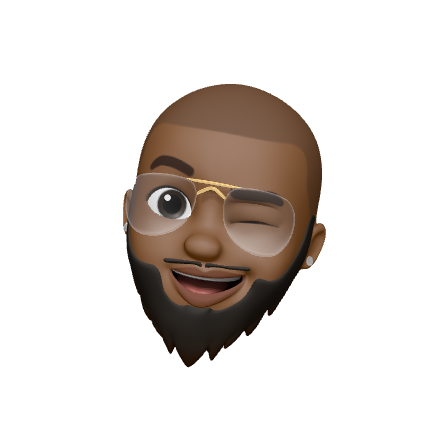
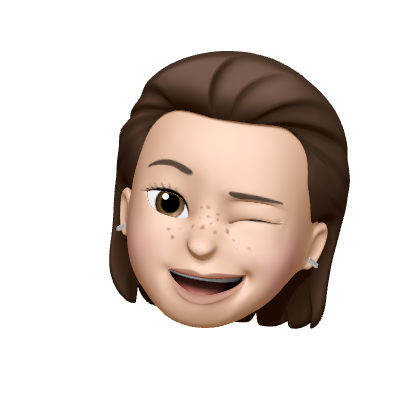
update the pictures

diff --git a/index.html b/index.html
@@ -5,7 +5,7 @@
   <meta charset="utf-8">
   <meta content="width=device-width, initial-scale=1.0" name="viewport">
 
-  <title>Joojo Dontoh</title>
+  <title>Yasmine Lagha</title>
   <meta content="" name="descriptison">
   <meta content="" name="keywords">
 
@@ -26,7 +26,8 @@
   <link href="assets/vendor/boxicons/css/boxicons.min.css" rel="stylesheet">
   <link href="assets/vendor/venobox/venobox.css" rel="stylesheet">
   <link href="https://cdn.jsdelivr.net/gh/gitbrent/bootstrap4-toggle@3.6.1/css/bootstrap4-toggle.min.css" rel="stylesheet">
-
+  <link href='https://unpkg.com/boxicons@2.1.4/css/boxicons.min.css' rel='stylesheet'>
+  <script src="https://kit.fontawesome.com/2cbb234619.js" crossorigin="anonymous"></script>
   <!-- Template Main CSS File -->
   <link href="assets/css/style.css" rel="stylesheet">
 </head>
@@ -35,13 +36,14 @@
 
   <!-- ======= Header ======= -->
   <header id="header" class="header-tops">
+    
     <div class="container">
 
       <!-- Uncomment below if you prefer to use an image logo -->
-      <a href="index.html" class="mr-auto"><img src="assets/img/happyanimoji.png" alt="" class="img-fluid"></a>
-      <h1><a href="index.html">Joojo Dontoh</a></h1>
+      <a href="index.html" class="mr-auto"><img src="assets/img/yasmine-ferhana-sticker.png" alt="" class="img-fluid"></a>
+      <h1><a href="index.html">Lagha Yasmine</a></h1>
 
-      <h2>I'm a passionate <span>Sofware Engineer</span> from Ghana 🇬🇭 </h2>
+      <h2>I'm a passionate <span>Software Engineering Student</span> from Canada 🇨🇦 </h2>
 
       <nav class="nav-menu d-none d-lg-block">
         <ul>
@@ -49,22 +51,15 @@
           <li><a href="#about">About</a></li>
           <li><a href="#resume">Resume</a></li>
           <li><a href="#services">Repositories</a></li>
-          <li><a href="#writing">Writing</a></li>
-          <li><a href="#extras">Extras</a></li>
           <li><a href="#contact">Contact</a></li>
-          <li ><a href=""><div class="checkbox checkbox-slider--b-flat">
-            <label>
-              <input id="theme" type="checkbox"><span> </span>
-            </label>
-          </div></a></li>
         </ul>
       </nav><!-- .nav-menu -->
 
       <div class="social-links">
-        <a href="https://www.linkedin.com/in/joojo-dontoh-57843b65/" class="linkedin" target="_blank"><i
+        <a href="https://www.linkedin.com/in/yasmine-lagha-b10916254/" class="linkedin" target="_blank"><i
             class="icofont-linkedin"></i>
           </a>
-        <a href="https://dev.to/joojodontoh" target="_blank">
+        <a href="https://dev.to/yasminelagha" target="_blank">
           <img src="https://d2fltix0v2e0sb.cloudfront.net/dev-badge.svg" alt="JOOJO DONTOH's DEV Community Profile" height="30" width="30">
         </a>
       </div>
@@ -85,43 +80,32 @@
 
       <div class="row">
         <div class="col-lg-4" data-aos="fade-right">
-          <img src="assets/img/Image 3.png" class="img-fluid" alt="">
+          <img src="assets/img/memoji who am i .png" class="img-fluid" alt="">
         </div>
         <div class="col-lg-8 pt-4 pt-lg-0 content" data-aos="fade-left">
-          <h3>Software Engineer (Backend)</h3>
+          <h3>Computer and Software Engineer (Backend)</h3>
           <p class="font-italic">
-            My name is Joojo Dontoh (if you're reading this you probably know that already). I have always had an
-            insatiable appetite for anything in connection to computers. Throughout my childhood I
-            would always tinker with any device in my possession to have an Idea as to how it works. This appetite led
-            me through high school (Mfantsipim School) and then to Multimedia university in Malaysia where I had my
-            bachelors degree in computer science with a specialisation in business information systems.
-
-            Throughout my time in school I spent countless hours building software based on requirements I would put
-            together myself. I improved my skills with technologies such as java spring boot, python (windows
-            applications) and numerous javascript application which I hosted on heroku because there was a vast amount
-            of resources at my disposal.
+            If one day someone will be a programming legend thanks to Scratch, it will probably be me.  My name is Yasmine Lagha, I'm studyimg Computer Engineering with the CO-OP option 
+            at the University Of Ottawa.I discoverd my passion for coding and digital world by the age 0f 14 years old doing a school project, a game that we had to developp with scratch 
+            (it was a big deal at that time ...). After spending hours creating scripts for Simpsons's collecting coins to buy  the iphone X, I had a 20/20 as a final grade (the best grade, obviously).
+             Since that moment, I wanted to code, create and learn how to develop progamms. 
           </p>
           <div class="row">
             <div class="col-lg-6">
               <ul>
-                <li><i class="icofont-rounded-right"></i> <strong>Git:</strong> <a href="https://github.com/Joojo7"
+                <li><i class="icofont-rounded-right"></i> <strong>Git:</strong> <a href="https://github.com/yasmine-lagha"
                     target="_blank">
                     Check my Github out</a> </li>
-                <li><i class="icofont-rounded-right"></i> <strong>City:</strong> Cyberjaya, Malaysia</li>
+                <li><i class="icofont-rounded-right"></i> <strong>City:</strong>  Tunis, Tunisia</li>
               </ul>
             </div>
             <div class="col-lg-6">
               <ul>
-                <li><i class="icofont-rounded-right"></i> <strong>Email:</strong> joojodontoh@gmail.com</li>
+                <li><i class="icofont-rounded-right"></i> <strong>Email:</strong>  jaslagha@gmail.com</li>
               </ul>
             </div>
           </div>
-          <p>
-            Discovering the components of software, server management and devops as I work in this industry continues to
-            fascinate me while increasing my passion for software development exponentially. The world would never be
-            short of problems to solve or applications to build which makes me very happy. Hope to share my passion with
-            you soon.
-          </p>
+         
         </div>
       </div>
 
@@ -181,7 +165,7 @@
         <div class="col-lg-6">
 
           <div class="progress">
-            <span class="skill">Node.js <i class="val">100%</i></span>
+            <span class="skill">Python<i class="val">100%</i></span>
             <div class="progress-bar-wrap">
               <div class="progress-bar" role="progressbar" aria-valuenow="100" aria-valuemin="0" aria-valuemax="100">
               </div>
@@ -189,7 +173,7 @@
           </div>
 
           <div class="progress">
-            <span class="skill">React.js <i class="val">60%</i></span>
+            <span class="skill">JAVA<i class="val">60%</i></span>
             <div class="progress-bar-wrap">
               <div class="progress-bar" role="progressbar" aria-valuenow="60" aria-valuemin="0" aria-valuemax="100">
               </div>
@@ -197,7 +181,7 @@
           </div>
 
           <div class="progress">
-            <span class="skill">Express.js <i class="val">100%</i></span>
+            <span class="skill"> IT Support <i class="val">100%</i></span>
             <div class="progress-bar-wrap">
               <div class="progress-bar" role="progressbar" aria-valuenow="100" aria-valuemin="0" aria-valuemax="100">
               </div>
@@ -209,7 +193,7 @@
         <div class="col-lg-6">
 
           <div class="progress">
-            <span class="skill">Flutter <i class="val">60%</i></span>
+            <span class="skill"> HTML <i class="val">60%</i></span>
             <div class="progress-bar-wrap">
               <div class="progress-bar" role="progressbar" aria-valuenow="60" aria-valuemin="0" aria-valuemax="100">
               </div>
@@ -217,63 +201,13 @@
           </div>
 
           <div class="progress">
-            <span class="skill">Adobe Illustrator <i class="val">60%</i></span>
-            <div class="progress-bar-wrap">
-              <div class="progress-bar" role="progressbar" aria-valuenow="60" aria-valuemin="0" aria-valuemax="100">
-              </div>
-            </div>
-          </div>
-
-          <div class="progress">
-            <span class="skill">Photoshop <i class="val">88%</i></span>
+            <span class="skill"> Unity <i class="val">88%</i></span>
             <div class="progress-bar-wrap">
               <div class="progress-bar" role="progressbar" aria-valuenow="88" aria-valuemin="0" aria-valuemax="100">
               </div>
             </div>
           </div>
 
-        </div>
-
-        <div class="col-lg-6">
-
-          <div class="progress">
-            <span class="skill">Version Control (GIT) <i class="val">90%</i></span>
-            <div class="progress-bar-wrap">
-              <div class="progress-bar" role="progressbar" aria-valuenow="90" aria-valuemin="0" aria-valuemax="100">
-              </div>
-            </div>
-          </div>
-
-          <div class="progress">
-            <span class="skill">Python <i class="val">60%</i></span>
-            <div class="progress-bar-wrap">
-              <div class="progress-bar" role="progressbar" aria-valuenow="60" aria-valuemin="0" aria-valuemax="100">
-              </div>
-            </div>
-          </div>
-
-          <div class="progress">
-            <span class="skill">Java <i class="val">50%</i></span>
-            <div class="progress-bar-wrap">
-              <div class="progress-bar" role="progressbar" aria-valuenow="50" aria-valuemin="0" aria-valuemax="100">
-              </div>
-            </div>
-          </div>
-
-          <div class="progress">
-            <span class="skill">KNIME<i class="val">50%</i></span>
-            <div class="progress-bar-wrap">
-              <div class="progress-bar" role="progressbar" aria-valuenow="50" aria-valuemin="0" aria-valuemax="100">
-              </div>
-            </div>
-          </div>
-
-          <div class="progress">
-            <span class="skill">Golang<i class="val">70%</i></span>
-            <div class="progress-bar-wrap">
-              <div class="progress-bar" role="progressbar" aria-valuenow="70" aria-valuemin="0" aria-valuemax="100">
-              </div>
-            </div>
           </div>
         </div>
 
@@ -291,14 +225,14 @@
       <div class="row">
         <div class="col-lg-3 col-md-4">
           <div class="icon-box">
-            <i class="ri-paint-brush-line" style="color: var(--primarybirght)"></i>
-            <h3>Design</h3>
+            <i class='bx bxs-piano' style="color: var(--primarybirght)"></i>
+            <h3>Piano</h3>
           </div>
         </div>
         <div class="col-lg-3 col-md-4 mt-4 mt-md-0">
           <div class="icon-box">
-            <i class="ri-brush-fill" style="color: var(--primarybirght)"></i>
-            <h3>Photo Manupulation</h3>
+            <i class="fa-solid fa-masks-theater"style="color: var(--primarybirght)"></i>
+            <h3>Theatre</h3>
           </div>
         </div>
         <div class="col-lg-3 col-md-4 mt-4 mt-md-0">
@@ -309,8 +243,8 @@
         </div>
         <div class="col-lg-3 col-md-4 mt-4 mt-lg-0">
           <div class="icon-box">
-            <i class="ri-football-fill" style="color:  var(--primarybirght)"></i>
-            <h3>Watching Football</h3>
+            <i class="fa-solid fa-dumbbell"style="color:  var(--primarybirght)"></i>
+            <h3>Gym</h3>
           </div>
         </div>
 
@@ -551,57 +485,32 @@
       </div>
 
       <div class="col-lg-4" data-aos="fade-right">
-        <img src="assets/img/Image 4.png" class="img-fluid" alt="">
+        <img src="assets/img/yasmine al computer.png" class="img-fluid" alt="">
       </div>
-
+      
       <div class="row">
 
-        <div class="col-lg-4 col-md-6 d-flex align-items-stretch">
+        <div class="col-lg-4 col-md-6 d-flex align-items-stretch mt-4 mt-md-0">
           <div class="icon-box">
-            <div class="icon"><i class="bx bxs-hotel"></i></div>
-            <h4><a href="https://github.com/Joojo7/Hotel-booking-system" target="_blank">Hotel-booking-system</a></h4>
-            <p>Hotel booking system (Restful APIs and backend Database)</p>
+            <div class="icon"><i class="fa-solid fa-table-tennis-paddle-ball"></i></div>  
+            <h4><a href="https://github.com/yasmine-lagha/ping-pong.git" target="_blank">Ping pong</a></h4>
+            <p> Ping pong game designed by me and developed by C#</p>
           </div>
         </div>
 
         <div class="col-lg-4 col-md-6 d-flex align-items-stretch mt-4 mt-md-0">
           <div class="icon-box">
-            <div class="icon"><i class="bx bx-phone"></i></div>
-            <h4><a href="https://github.com/Joojo7/demo-contacts-api" target="_blank">Contacts API</a></h4>
-            <p>API for creating contacts (Restful APIs and backend Database)</p>
+            <div class="icon"><i class="fa-solid fa-gamepad"></i></div>  
+            <h4><a href="https://github.com/yasmine-lagha/Arkanoid.git" target="_blank">Arkanoid</a></h4>
+            <p> Arkanoid game designed by me and developed by C#</p>
           </div>
         </div>
 
-        <div class="col-lg-4 col-md-6 d-flex align-items-stretch mt-4 mt-lg-0">
+        <div class="col-lg-4 col-md-6 d-flex align-items-stretch mt-4 mt-md-0">
           <div class="icon-box">
-            <div class="icon"><i class="bx bx-bone"></i></div>
-            <h4><a href="https://github.com/Joojo7/Bone-cancer-KNN-ML">Bone-cancer-KNN-ML</a></h4>
-            <p>Osteosarcoma KNN machine learning (supervised machine learning model using python)</p>
-          </div>
-        </div>
-
-        <div class="col-lg-4 col-md-6 d-flex align-items-stretch mt-4">
-          <div class="icon-box">
-            <div class="icon"><i class='bx bx-food-menu'></i></div>
-            <h4><a href="https://github.com/Joojo7/go-restaurant-app">Restaurant order system</a></h4>
-            <p>Server side application in Golang for managing restarant orders</p>
-          </div>
-        </div>
-         
-
-        <div class="col-lg-4 col-md-6 d-flex align-items-stretch mt-4">
-          <div class="icon-box">
-            <div class="icon"><i class="bx bxs-car-mechanic"></i></div>
-            <h4><a href="https://github.com/Joojo7/machine-learning-ML5-P5">Machine Learning model</a></h4>
-            <p>Machine learning model that can translate Ghanaian insults. Tools used are teachablemachine (to train the model), ML5 and P5</p>
-          </div>
-        </div>
-
-        <div class="col-lg-4 col-md-6 d-flex align-items-stretch mt-4">
-          <div class="icon-box">
-            <div class="icon"><i class="bx bx-chat"></i></div>
-            <h4><a href="https://github.com/Joojo7/socket-application-server">Server side for socket application</a></h4>
-            <p>This is a server-side for a small webchat application application</p>
+            <div class="icon"><i class="fa-brands fa-earlybirds"></i></div>  
+            <h4><a href="https://github.com/yasmine-lagha/Flappy-bird.git" target="_blank">Flappy Bird</a></h4>
+            <p> Flappy bird game designed by me and developed by C#</p>
           </div>
         </div>
 
@@ -792,7 +701,7 @@
           <div class="info-box">
             <i class="bx bx-map"></i>
             <h3>My Address</h3>
-            <p>Cyberjaya, Malaysia</p>
+            <p>Ottawa, Canada</p>
           </div>
         </div>
 
@@ -801,7 +710,7 @@
             <i class="bx bx-share-alt"></i>
             <h3>Social Profiles</h3>
             <div class="social-links">
-              <a href="https://www.linkedin.com/in/joojo-dontoh-57843b65/" target="_blank" class="linkedin"><i
+              <a href="https://www.linkedin.com/in/yasmine-lagha-b10916254/" target="_blank" class="linkedin"><i
                   class="icofont-linkedin"></i></a>
             </div>
           </div>
@@ -811,7 +720,7 @@
           <div class="info-box">
             <i class="bx bx-envelope"></i>
             <h3>Email Me</h3>
-            <p>joojodontoh@gmail.com</p>
+            <p>jaslagha@gmail.com</p>
           </div>
         </div>
       </div>

diff --git a/assets/css/style.css b/assets/css/style.css
@@ -1,7 +1,7 @@
 
 :root {
-  --primarybirght: #ebb60a;
-  --primarylight: #ebb60a;
+  --primarybirght: #9b6783;
+  --primarylight: #976280;
 
   --white: #ffffff;
 
@@ -36,7 +36,7 @@
 
   content: "";
   position: fixed;
-  background:  url("../../assets/img/bgme.jpeg") top right no-repeat;
+  background:  url("../../assets/img/the\ last\ one\ .JPG") top right no-repeat;
   background-size: cover;
   left: 0;
   right: 0;
